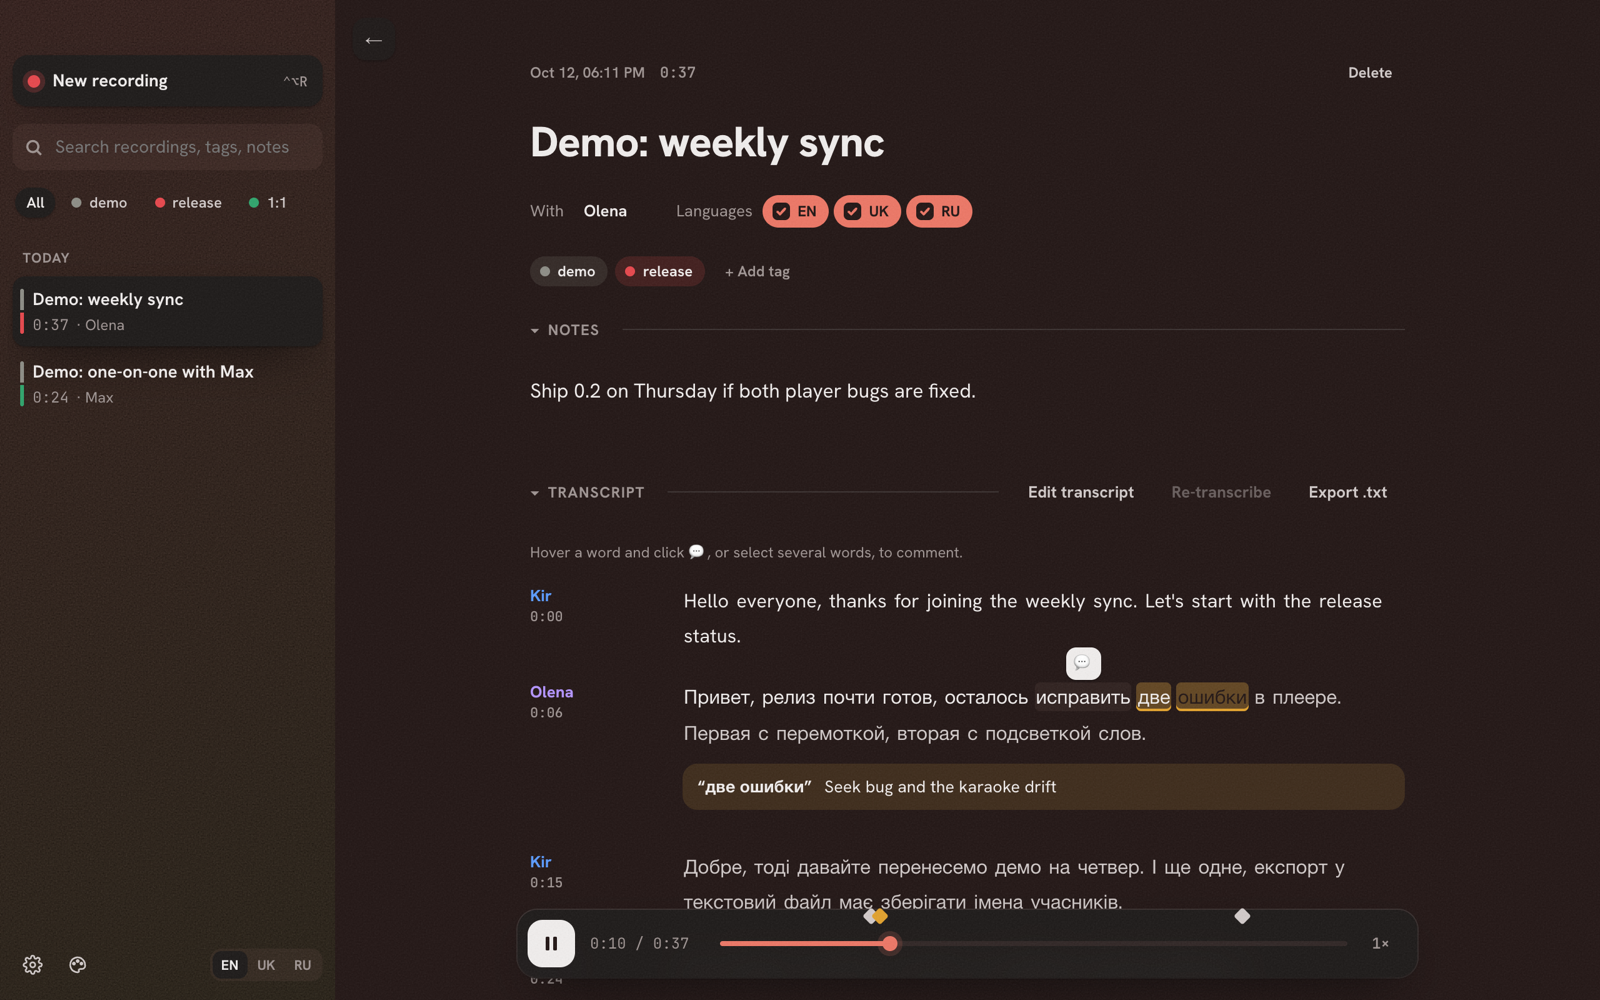
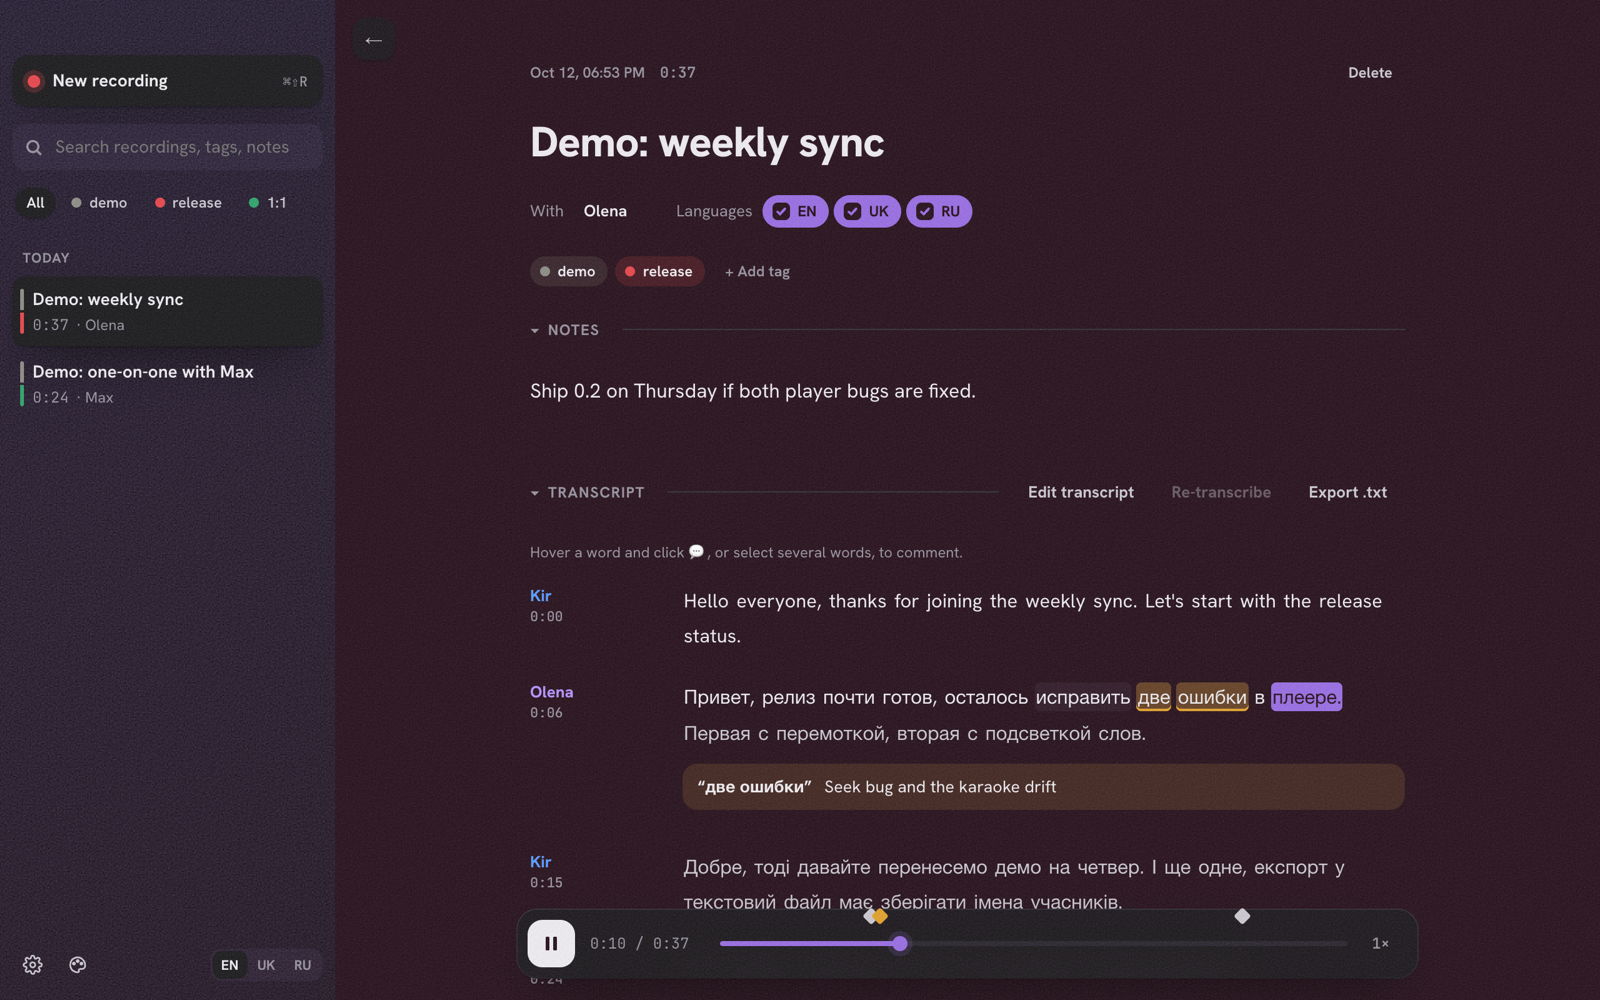
Fix hotkey capture, hide hotkey hints when unset, default to the new palette, README diagram

diff --git a/src/views/Settings.tsx b/src/views/Settings.tsx
@@ -27,24 +27,34 @@ export const prettyHotkey = (h: string) =>
 function HotkeyInput({ value, onSave }: { value: string; onSave: (v: string) => void }) {
   const { t } = useApp();
   const [listening, setListening] = useState(false);
+  useEffect(() => {
+    if (!listening) return;
+    const k = (e: KeyboardEvent) => {
+      e.preventDefault();
+      e.stopPropagation();
+      if (e.key === "Escape") return setListening(false);
+      const key = e.code.startsWith("Key") ? e.code.slice(3) : e.code.startsWith("Digit") ? e.code.slice(5) : /^F\d+$/.test(e.code) || e.code === "Space" ? e.code : null;
+      const mods = MODIFIERS.filter(([m]) => e[m]).map(([, name]) => name);
+      if (key && mods.length > 0) {
+        setListening(false);
+        onSave([...mods, key].join("+"));
+      }
+    };
+    const cancel = () => setListening(false);
+    window.addEventListener("keydown", k, true);
+    window.addEventListener("pointerdown", cancel);
+    return () => {
+      window.removeEventListener("keydown", k, true);
+      window.removeEventListener("pointerdown", cancel);
+    };
+  }, [listening]);
   return (
     <span style={{ display: "flex", gap: 6 }}>
       <button
         className="textin mono"
         style={{ width: 150, textAlign: "center", fontWeight: 600, boxShadow: listening ? "0 0 0 2px var(--accent)" : undefined }}
-        onClick={() => setListening(true)}
-        onBlur={() => setListening(false)}
-        onKeyDown={(e) => {
-          if (!listening) return;
-          e.preventDefault();
-          if (e.key === "Escape") return setListening(false);
-          const key = e.code.startsWith("Key") ? e.code.slice(3) : e.code.startsWith("Digit") ? e.code.slice(5) : /^F\d+$/.test(e.code) || e.code === "Space" ? e.code : null;
-          const mods = MODIFIERS.filter(([k]) => e[k]).map(([, name]) => name);
-          if (key && mods.length > 0) {
-            setListening(false);
-            onSave([...mods, key].join("+"));
-          }
-        }}
+        onPointerDown={(e) => e.stopPropagation()}
+        onClick={() => setListening(!listening)}
       >
         {listening ? t.hotkeyPress : value ? prettyHotkey(value) : t.hotkeyNone}
       </button>

diff --git a/src/App.tsx b/src/App.tsx
@@ -15,7 +15,7 @@ import { Home, Notch, RecMeta, TagFilters, groupByDay } from "./views/Home";
 import { RecordingView } from "./views/Recording";
 import { SECTIONS, SettingsView, prettyHotkey } from "./views/Settings";
 
-const DEFAULT_THEME: Theme = { h: 8, c: 62, bh: 8, bc: 30, grain: 0.5, bgrain: 0.3, depth: 0.25, lift: 0.1, mode: "auto" };
+const DEFAULT_THEME: Theme = { h: 262, c: 52, bh: 330, bc: 55, grain: 1, bgrain: 0.56, depth: 0, lift: 0, mode: "auto" };
 
 export default function App() {
   const [settings, setSettings] = useState<Settings | null>(null);
@@ -355,7 +355,7 @@ function Shell({ initial }: { initial: Settings }) {
                 <button className="newrec" onClick={newRecording}>
                   <i className="dot" />
                   {t.newRec}
-                  <span className="kbd">{prettyHotkey(settings.hotkey)}</span>
+                  {settings.hotkey && <span className="kbd">{prettyHotkey(settings.hotkey)}</span>}
                 </button>
                 <label className="search">
                   {Icon.search}

diff --git a/src/views/Home.tsx b/src/views/Home.tsx
@@ -121,7 +121,7 @@ function HomeRow({ r }: { r: Recording }) {
 }
 
 export function Home({ footer }: { footer: React.ReactNode }) {
-  const { t, recordings, query, setQuery, newRecording } = useApp();
+  const { t, recordings, query, setQuery, newRecording, settings } = useApp();
   return (
     <>
     <div className="homewrap">
@@ -141,9 +141,11 @@ export function Home({ footer }: { footer: React.ReactNode }) {
         <button className="bigrec" onClick={newRecording}>
           <i />
           {t.newRec}
-          <span className="kbd" style={{ color: "#fff", opacity: 0.7 }}>
-            {prettyHotkey(useApp().settings.hotkey)}
-          </span>
+          {settings.hotkey && (
+            <span className="kbd" style={{ color: "#fff", opacity: 0.7 }}>
+              {prettyHotkey(settings.hotkey)}
+            </span>
+          )}
         </button>
       </div>
       <div className="hfilters">

diff --git a/src/components/Tour.tsx b/src/components/Tour.tsx
@@ -46,7 +46,7 @@ export function Tour({ hotkey, lang, setLang, step, setStep, onEnd, actionDone }
     return () => window.removeEventListener("keydown", k);
   });
   const [title, rawBody] = tt.steps[step];
-  const body = rawBody.replace("{hotkey}", hotkey);
+  const body = hotkey ? rawBody.replace("{hotkey}", hotkey) : rawBody.replace(/\s*[^.!?]*\{hotkey\}\.?/, "");
   const action = TOUR_STEPS[step].action;
   const done = !action || actionDone(action);
   const pad = 8;

diff --git a/src/styles.css b/src/styles.css
@@ -1,5 +1,5 @@
 :root{
-  --h:8; --c:62; --bh:8; --bc:30; --grain:.5; --bgrain:.3; --depth:.25; --lift:.1;
+  --h:262; --c:52; --bh:330; --bc:55; --grain:1; --bgrain:.56; --depth:0; --lift:0;
   --base:hsl(var(--bh) calc(var(--bc)*.95%) calc(97% - var(--bc)*.05%));
   --pip:color-mix(in oklab,var(--bg),#fff calc(var(--lift)*40% + 6%));
   --side:hsl(var(--h) calc(var(--c)*.85%) 89%);

diff --git a/README.md b/README.md
@@ -97,19 +97,13 @@ Recordings, transcripts, notes and settings live in `~/Library/Application Suppo
 
 ## How it works
 
-```
-┌──────────── React UI (Tauri webview) ─────────────┐
-│ home · recording · settings · walkthrough          │
-└──────────────── commands / events ─────────────────┘
-┌──────────────────── Rust core ─────────────────────┐
-│ SQLite library · transcription queue · model download │
-│ whisper.cpp (Metal) with per-utterance language     │
-│ detection and word timestamps                       │
-└───────────────────── sidecar ──────────────────────┘
-┌──────────────── Swift audio helper ────────────────┐
-│ Core Audio process tap + microphone → stereo AAC    │
-│ permissions · decoding for transcription            │
-└─────────────────────────────────────────────────────┘
+```mermaid
+flowchart TB
+  UI["<b>React UI</b> in a Tauri webview<br/>home · recording · settings · walkthrough"]
+  Core["<b>Rust core</b><br/>SQLite library · transcription queue · model download<br/>whisper.cpp on Metal with per-utterance language detection and word timestamps"]
+  Audio["<b>Swift audio helper</b><br/>Core Audio process tap + microphone → stereo AAC<br/>permissions · decoding for transcription"]
+  UI <-->|commands and events| Core
+  Core <-->|sidecar process| Audio
 ```
 
 - `src/`: React interface
@@ -134,13 +128,6 @@ cd src-tauri && cargo test
 ```
 
 The end-to-end transcription test runs when the model is present in `~/Library/Application Support/com.bazeltsev.muesli/models`.
-
-## Releasing
-
-1. Bump `version` in `src-tauri/tauri.conf.json`, `src-tauri/Cargo.toml` and `package.json`.
-2. Tag and push: `git tag v0.2.0 && git push --tags`.
-
-The Release workflow builds the app, signs the update and publishes a GitHub release with `latest.json` for the in-app updater. Running the workflow by hand creates a draft instead.
 
 ## License
 
